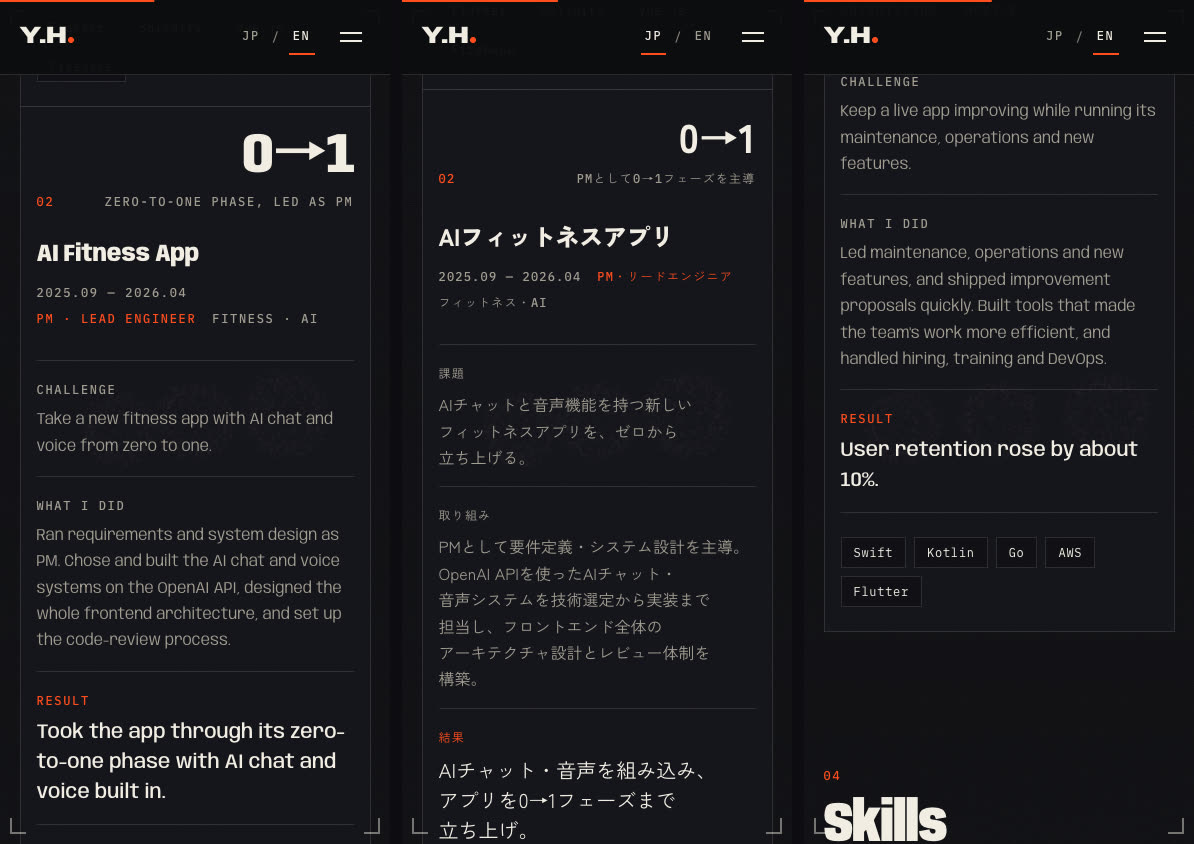
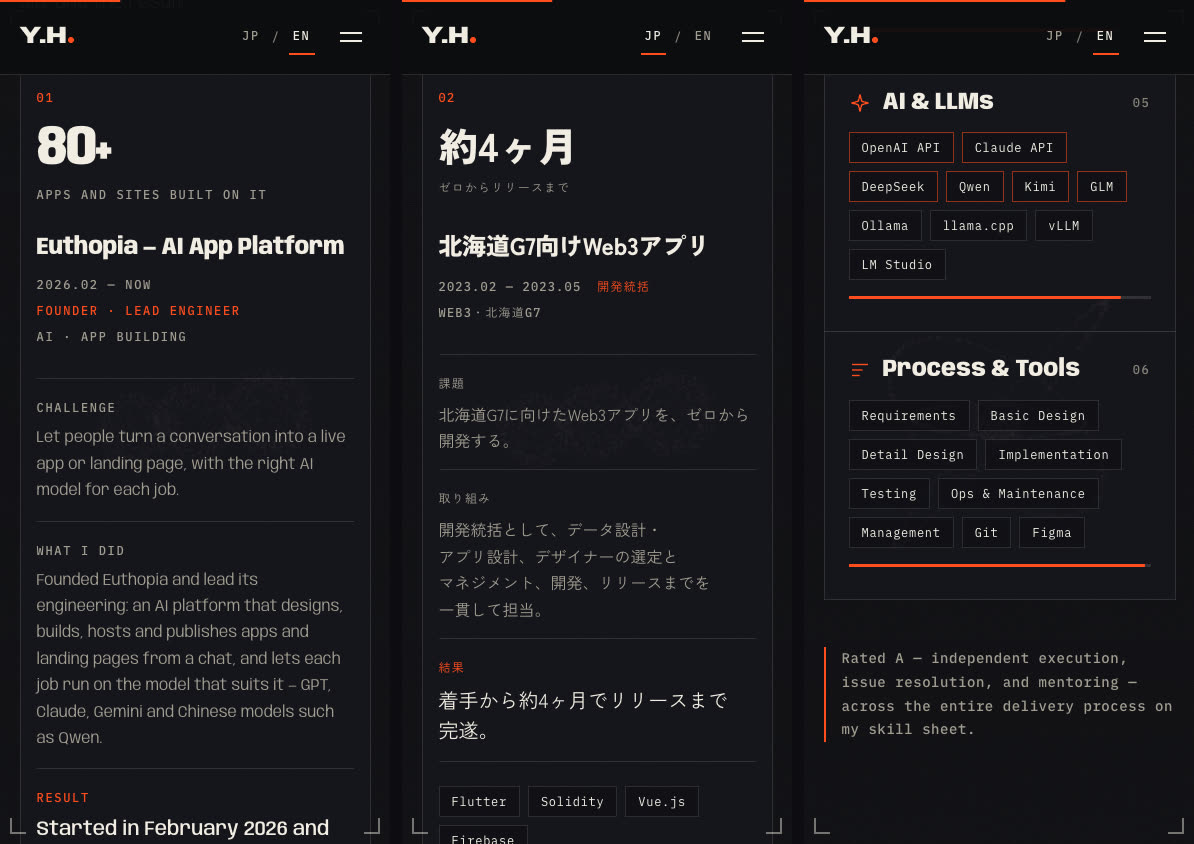
Skills note: 'level A on my skill sheet's scale'; fresh screenshots
"Rated A" read as if someone else rated Chris; the skill sheet's A is a
level on its own scale (the CV uses the same wording). Screenshots of
the Work section and the AI & LLMs card updated for the pull request.

Claude-Session: https://claude.ai/code/session_011iSfxhtkGddCJ9ezamm9UF

diff --git a/assets/js/i18n.js b/assets/js/i18n.js
@@ -74,7 +74,7 @@ const I18N = {
     "skills.p.test": "Testing",
     "skills.p.ops": "Ops & Maintenance",
     "skills.p.mgmt": "Management",
-    "skills.note": "Rated A — independent execution, issue resolution, and mentoring — across the entire delivery process on my skill sheet.",
+    "skills.note": "Level A on my skill sheet's scale across the entire delivery process — independent execution, issue resolution, and mentoring.",
     "skills.r.l": "Languages",
     "skills.r.w": "Web",
     "skills.r.m": "Mobile",
